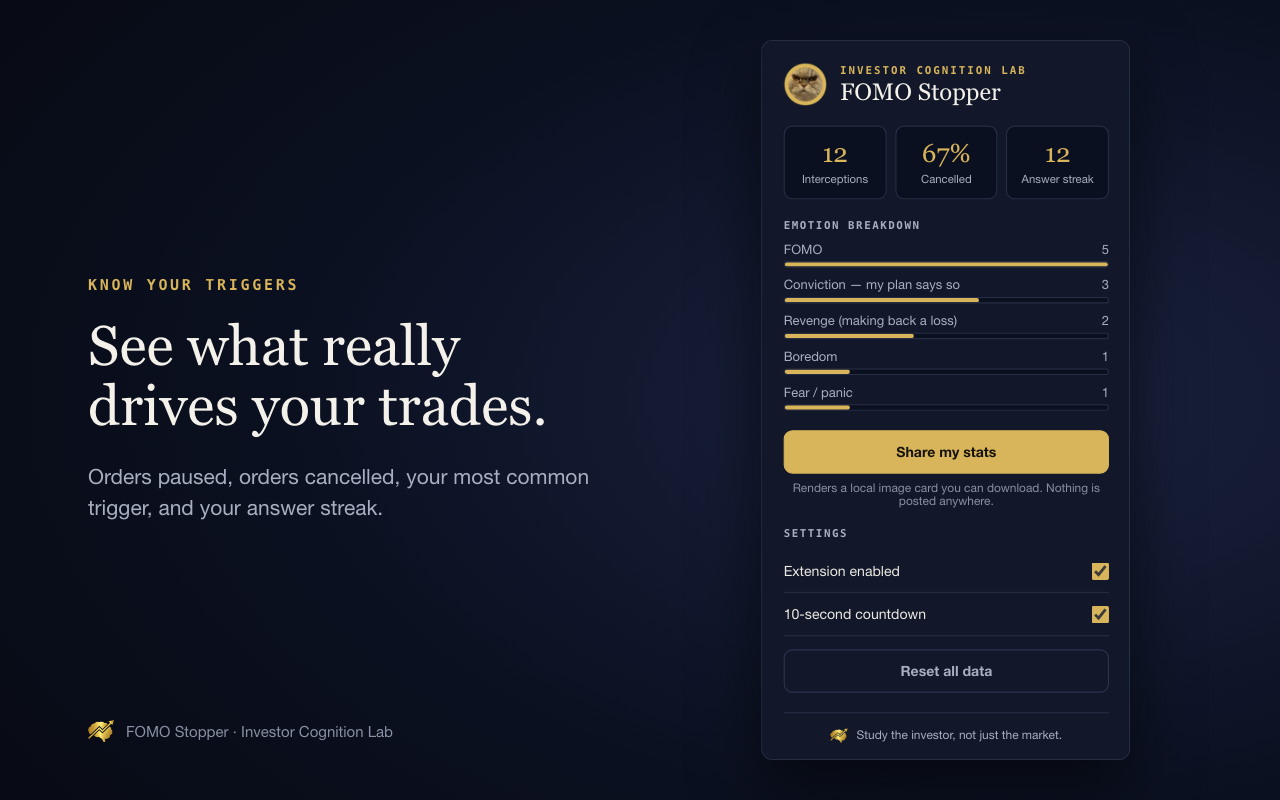
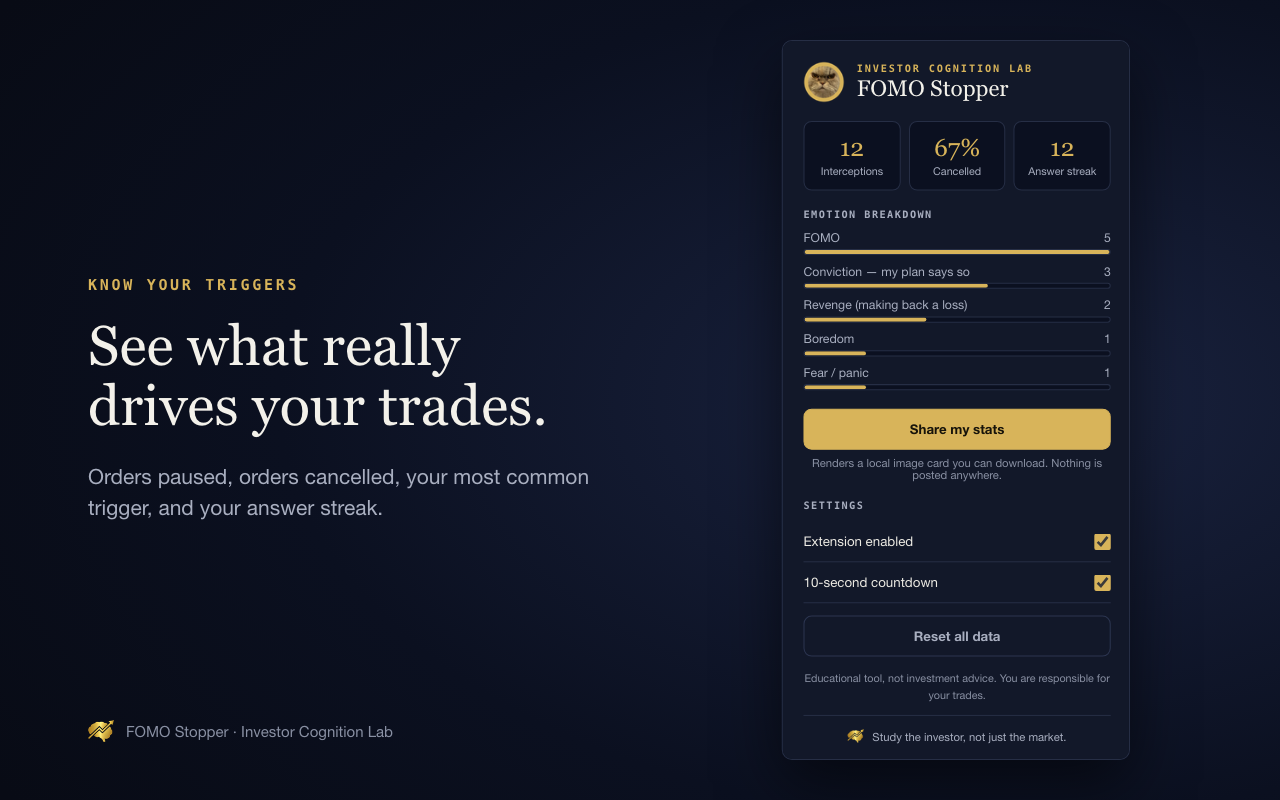
Add disclaimer
Educational tool, not investment advice. The deliberate pause can change
fill prices or miss a trade, and the extension may miss orders after a
TradingView update, so it is not a risk-management tool. Adds
DISCLAIMER.md (shipped in the store package), a one-line notice in the
popup, and disclaimer sections in the README and store listing.

diff --git a/popup.html b/popup.html
@@ -54,6 +54,8 @@
     <button id="reset" class="danger">Reset all data</button>
   </section>
 
+  <p class="disclaimer">Educational tool, not investment advice. You are responsible for your trades.</p>
+
   <footer><img src="icons/icl-logo.png" alt="">Study the investor, not just the market.</footer>
 
   <canvas id="share-canvas" width="1200" height="675" hidden></canvas>

diff --git a/popup.css b/popup.css
@@ -145,6 +145,14 @@ button:focus-visible { outline: 2px solid var(--gold); outline-offset: 2px; }
 }
 .toggle-row input { accent-color: var(--gold); width: 16px; height: 16px; }
 
+.disclaimer {
+  font-size: 10.5px;
+  line-height: 1.45;
+  color: var(--faint);
+  text-align: center;
+  margin: -4px 0 12px;
+}
+
 footer {
   display: flex;
   align-items: center;

diff --git a/store/LISTING.md b/store/LISTING.md
@@ -45,7 +45,9 @@ PRIVATE BY DESIGN
 
 Works with TradingView's order panel, including Paper Trading.
 
-FOMO Stopper is an educational tool from Investor Cognition Lab. It is not investment advice. Not affiliated with or endorsed by TradingView.
+DISCLAIMER: FOMO Stopper is an educational tool from Investor Cognition Lab, not investment advice. You are responsible for your own trades. Prices can move while your order is paused, and the extension may not detect every order (for example after a TradingView update), so do not rely on it for risk management. Provided as is, without warranty. Try it with Paper Trading first. Full disclaimer: https://www.investorcognitionlab.com/fomo-stopper/disclaimer
+
+Not affiliated with or endorsed by TradingView.
 
 Study the investor, not just the market.
 ```
@@ -77,7 +79,9 @@ FOMO Stopper 在你的點擊和券商之間加上一次暫停。當你在 Tradin
 
 支援 TradingView 的下單面板，包含模擬交易（Paper Trading）。
 
-FOMO Stopper 是 Investor Cognition Lab 的教育工具，不構成投資建議。與 TradingView 無關聯，亦未獲其背書。
+免責聲明：FOMO Stopper 是 Investor Cognition Lab 的教育工具，不構成投資建議，所有交易決定與結果由你自行負責。訂單暫停期間價格可能變動；擴充功能也可能無法偵測每一筆下單（例如 TradingView 改版後），請勿把它當成風險控管工具。本工具按現狀提供，不附任何保證。建議先用模擬交易試用。完整聲明：https://www.investorcognitionlab.com/fomo-stopper/disclaimer
+
+與 TradingView 無關聯，亦未獲其背書。
 
 Study the investor, not just the market.
 ```

diff --git a/DISCLAIMER.md b/DISCLAIMER.md
@@ -1,0 +1,28 @@
+# FOMO Stopper — Disclaimer
+
+Last updated: 2026-09-29
+
+FOMO Stopper is an educational tool from Investor Cognition Lab. It is not
+investment, financial, legal, or tax advice, and it does not recommend buying
+or selling any security.
+
+You are solely responsible for your trading decisions and their results.
+Trading involves risk, including the loss of your entire investment.
+
+FOMO Stopper deliberately delays your order while you answer questions.
+Prices can move during that pause, so your order may fill at a different
+price, or you may miss the trade entirely.
+
+The extension may not detect every order. If TradingView changes its
+website, the pause may stop appearing, and your orders will go through
+without it. Do not rely on FOMO Stopper as a risk-management or
+loss-prevention tool.
+
+FOMO Stopper is provided "as is", without warranty of any kind. To the
+fullest extent permitted by law, Investor Cognition Lab is not liable for
+any losses or damages arising from its use or inability to use it. Try it
+with TradingView Paper Trading before using it with real money.
+
+FOMO Stopper is not affiliated with or endorsed by TradingView.
+
+Questions: fomo_cat@investorcognitionlab.com

diff --git a/README.md b/README.md
@@ -4,6 +4,9 @@
 
 > Study the investor, not just the market.
 
+*Educational tool, not investment advice. The pause can delay your order,
+and the extension may not catch every order. See [DISCLAIMER.md](DISCLAIMER.md).*
+
 When you click a Buy/Sell order button on TradingView, FOMO Stopper holds the
 click *before the order fires* and asks three questions:
 
@@ -160,6 +163,13 @@ fomo_log: [
 Cancelling without valid answers (`answered: false`) breaks the answer
 streak. Logs from before v2 may contain `outcome: "dismissed"` (closed with
 Escape), which is treated the same way. The log is capped at 5,000 entries.
+
+## Disclaimer
+
+FOMO Stopper is an educational tool, not investment advice, and not a
+risk-management tool. Prices can move while your order is paused, and if
+TradingView changes its page the pause may stop appearing. You are
+responsible for your own trades. Full text: [DISCLAIMER.md](DISCLAIMER.md).
 
 ## Contributing and reporting problems
 
